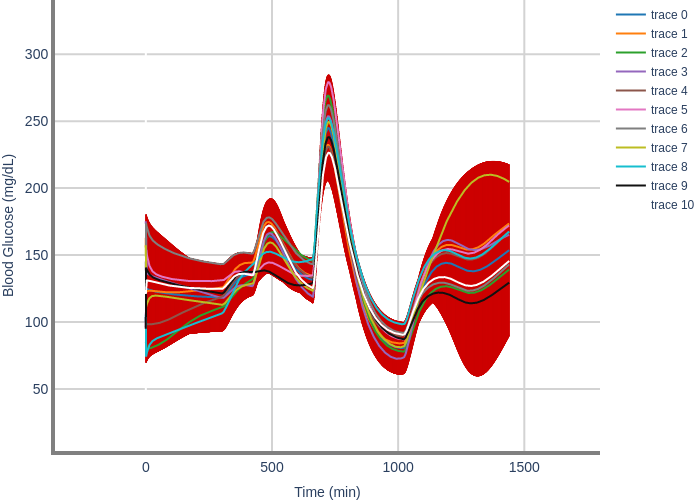
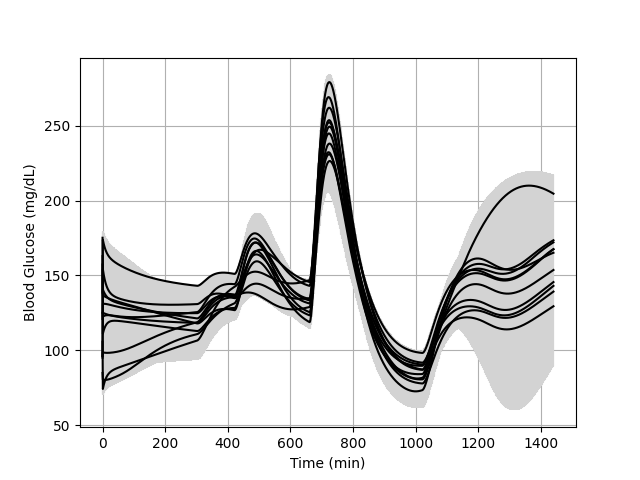
update extended shutoff

Changed region(s): [[0.0, 0.0, 1.0, 1.0], [0.4375, 0.7188, 0.4688, 0.7812], [0.25, 0.375, 0.2812, 0.4375]]

diff --git a/pump/analysis.py b/pump/analysis.py
@@ -317,11 +317,11 @@ if __name__ == '__main__':
     # fig = plot_results(results[0])
     # fig.write_image('test2.png')
 
-    result = load_from_dir('./results/redzone_high', 'scenario_5')
+    result = load_from_dir('./results/bad_verif', 'scenario_4')
     scenario, traces, safety = result
     print(hash(scenario))
     fig, ax = plot_result_paper(result)
-    fig.savefig('./figures/large_meal.png')
+    fig.savefig('./figures/extended_shutoff.png')
 
     # scenarios = load_scenarios_and_dirs('/mnt/shared/gpfs/home/ndate2/InsulinPump/results/verification')
     # rank_analysis(scenarios, key=redzone_high_key, n=5000, output_dir='results/redzone_high', reverse=True)
